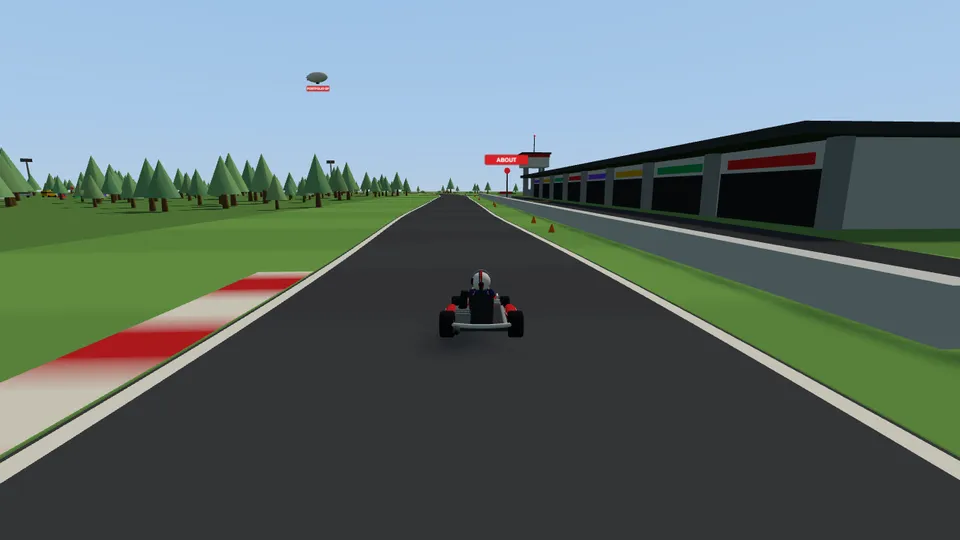
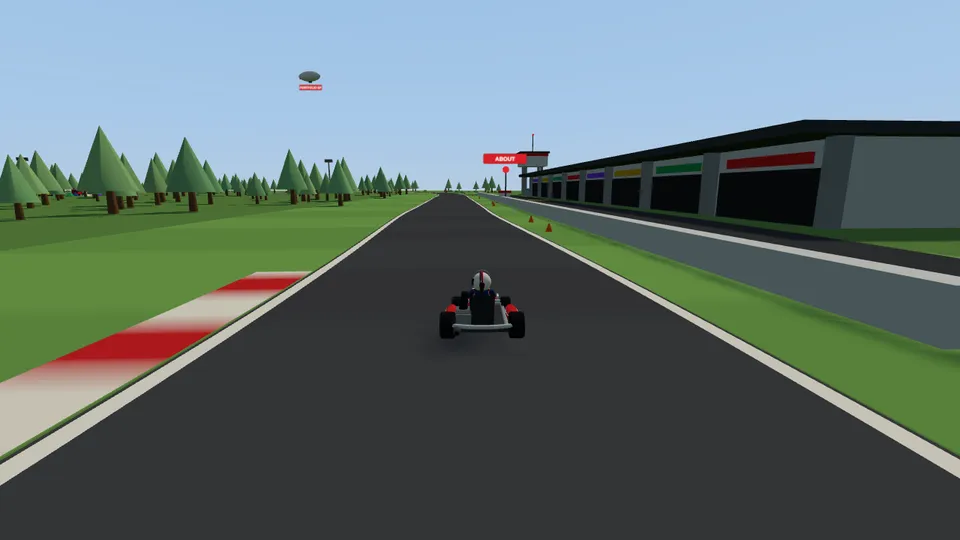
Mumbai GP polish: night sync, start lights, culling, facade hash fix, phone checks
- night/dusk state now syncs every layer (lamps, light pools, signs) via atmosphere listeners;
  brighter purple-blue toy night
- five-light start sequence with beeps for the timed GP; grid moved under the gantry
- distance culling for small-prop chunks
- fix: per-pixel hash jitter in facades (curtains/awnings striping) — integer seeds, rounded in shader
- panel pop-in animation, arrival ring burst, toy-styled loading screen
- brighter car red; regenerated menu previews; README
- e2e: phone (touch + low quality) checks — 29/29 passing

Claude-Session: https://claude.ai/code/session_01R3orstBXDgi5d4mRQ7dYN1

diff --git a/src/mumbai/landmarks.js b/src/mumbai/landmarks.js
@@ -128,7 +128,7 @@ export function buildLandmarks(ctx) {
   {
     const cx = 846, cz = 1102, gy = terr.heightAt(cx, cz) - 0.5;
     const cream = new THREE.Color(0xdcc9a4), roof = new THREE.Color(0x6b6156);
-    const fac = [STYLE.heritage, 4.3, 3.4, 11.3];
+    const fac = [STYLE.heritage, 4.3, 3.4, 113];
     const H = 6 * 4.3;
     fb.prism(rectPts(cx, cz, 9, 34, 0), gy, gy + H, cream, fac, roof, [STYLE.roof, 3, 3, 1]);
     fb.prism(rectPts(cx - 18, cz + 26, 18, 8, 0), gy, gy + H - 4.3, cream, fac, roof, [STYLE.roof, 3, 3, 2]);
@@ -153,7 +153,7 @@ export function buildLandmarks(ctx) {
     const p = PLACES.find(q => q.id === 'pitwall');
     const gy = terr.heightAt(p.x, p.z);
     // pavilion
-    fb.prism(rectPts(p.x, p.z - 10, 14, 6, 0), gy - 0.4, gy + 7.6, new THREE.Color(0x2a2e35), [STYLE.glass, 3.8, 1.6, 7.7], new THREE.Color(0x33373d), [STYLE.roof, 3, 3, 5]);
+    fb.prism(rectPts(p.x, p.z - 10, 14, 6, 0), gy - 0.4, gy + 7.6, new THREE.Color(0x2a2e35), [STYLE.glass, 3.8, 1.6, 77], new THREE.Color(0x33373d), [STYLE.roof, 3, 3, 5]);
     add(box(30, 0.5, 14), steel, p.x, gy + 7.9, p.z - 9.5);
     const sign = new THREE.Mesh(new THREE.PlaneGeometry(16, 2.4), new THREE.MeshStandardMaterial({ map: signTexture(['PIT WALL', 'CAREER HQ · FINISH'], { bg: '#121418', accent: '#d81f26' }), emissive: 0xffffff, emissiveIntensity: 0.25, emissiveMap: null }));
     sign.material.emissiveMap = sign.material.map;
@@ -174,9 +174,10 @@ export function buildLandmarks(ctx) {
     const lights = [];
     for (let k = 0; k < 5; k++) {
       const off = (k - 2) * 1.6;
-      const lm = new THREE.MeshStandardMaterial({ color: 0x220000, emissive: 0xff1a1a, emissiveIntensity: 0 });
-      const l = add(new THREE.CircleGeometry(0.42, 16), lm, r.x[gi] + nx * off + r.tx[gi] * 0.52, h + 7.2, r.z[gi] + nz * off + r.tz[gi] * 0.52, 0, false);
-      l.rotation.y = Math.atan2(-r.tx[gi], -r.tz[gi]);
+      const lm = new THREE.MeshStandardMaterial({ color: 0x2a0606, emissive: 0xff2a1a, emissiveIntensity: 0, roughness: 0.3 });
+      const housing = add(new THREE.BoxGeometry(0.62, 1.5, 0.5), steel, r.x[gi] + nx * off + r.tx[gi] * 0.6, h + 6.9, r.z[gi] + nz * off + r.tz[gi] * 0.6, Math.atan2(r.tx[gi], r.tz[gi]), false);
+      for (const dy of [0.32, -0.3]) { const l = add(new THREE.SphereGeometry(0.2, 12, 8), lm, r.x[gi] + nx * off + r.tx[gi] * 0.86, h + 6.9 + dy, r.z[gi] + nz * off + r.tz[gi] * 0.86, 0, false); l.scale.z = 0.5; l.rotation.y = Math.atan2(r.tx[gi], r.tz[gi]); }
+      void housing;
       lights.push(lm);
     }
     const timing = new THREE.Mesh(new THREE.PlaneGeometry(5, 1), new THREE.MeshBasicMaterial({ map: signTexture(['MUMBAI GP · START / FINISH'], { bg: '#0d0f12', fg: '#ffd166', h: 160 }) }));
@@ -215,7 +216,7 @@ export function buildLandmarks(ctx) {
     const sg = add(box(12, 1.6, 0.25), [plaster, plaster, plaster, plaster, signMat, signMat], sx, gy + 4.6, sz, F.rot);
     // main block (L-shape): open corridors facing the courtyard, maroon bands
     const cream = new THREE.Color(0xece2cc), roofC = new THREE.Color(0x5c5550);
-    const bfac = [STYLE.chawl, 3.7, 3.0, 4.2];
+    const bfac = [STYLE.chawl, 3.7, 3.0, 42];
     const blockA = rectPts(...F.T(0, -26), 30, 7, F.rot);
     fb.prism(blockA, gy - 0.5, gy + 15.4, cream, bfac, roofC, [STYLE.roof, 3, 3, 6]);
     fb.prism(rectPts(...F.T(0, -26), 30.4, 7.4, F.rot), gy + 15.4, gy + 16.2, new THREE.Color(0x7a2a28), [STYLE.plain, 3, 3, 0], roofC, [STYLE.roof, 3, 3, 6]);
@@ -243,7 +244,7 @@ export function buildLandmarks(ctx) {
     const F = frame(net, cx, cz);
     const gy = plazaH('kcCourt') + 0.05;
     const pts = rectPts(...F.T(0, -12), 20, 9, F.rot);
-    fb.prism(pts, gy - 0.5, gy + 26, new THREE.Color(0xe3dccb), [STYLE.office, 3.6, 2.2, 21.7], new THREE.Color(0x5d5852), [STYLE.roof, 3, 3, 8]);
+    fb.prism(pts, gy - 0.5, gy + 26, new THREE.Color(0xe3dccb), [STYLE.office, 3.6, 2.2, 217], new THREE.Color(0x5d5852), [STYLE.roof, 3, 3, 8]);
     fb.prism(rectPts(...F.T(0, -12), 20.4, 9.4, F.rot), gy + 26, gy + 27, new THREE.Color(0x24486e), [STYLE.plain, 3, 3, 0], new THREE.Color(0x5d5852), [STYLE.roof, 3, 3, 8]);
     colliders.box(...F.T(0, -12), 20, 9, F.rot, gy - 1, gy + 28);
     const [cx2, cz2] = F.T(0, -1.8);
@@ -260,12 +261,12 @@ export function buildLandmarks(ctx) {
     const grey = new THREE.Color(0xdad6cd), terracotta = new THREE.Color(0x9a4a32), roofC = new THREE.Color(0x56524d);
     // main block: G+8, as described on the institute's site
     const main = rectPts(...F.T(0, -30), 32, 10, F.rot);
-    fb.prism(main, gy - 0.5, gy + 34, grey, [STYLE.office, 3.7, 2.4, 31.1], roofC, [STYLE.roof, 3, 3, 9]);
+    fb.prism(main, gy - 0.5, gy + 34, grey, [STYLE.office, 3.7, 2.4, 311], roofC, [STYLE.roof, 3, 3, 9]);
     for (let k = 1; k <= 3; k++) fb.prism(rectPts(...F.T(0, -30), 32.3, 10.3, F.rot), gy + k * 11 - 0.6, gy + k * 11, terracotta, [STYLE.plain, 3, 3, 0], null, null);
     fb.prism(rectPts(...F.T(0, -30), 32.4, 10.4, F.rot), gy + 34, gy + 35.2, terracotta, [STYLE.plain, 3, 3, 0], roofC, [STYLE.roof, 3, 3, 9]);
     colliders.box(...F.T(0, -30), 32, 10, F.rot, gy - 1, gy + 36);
     // second (newer) block to the side
-    fb.prism(rectPts(...F.T(42, -14), 10, 16, F.rot), gy - 0.5, gy + 19, new THREE.Color(0x3a444b), [STYLE.glass, 3.8, 1.6, 41.3], roofC, [STYLE.roof, 3, 3, 10]);
+    fb.prism(rectPts(...F.T(42, -14), 10, 16, F.rot), gy - 0.5, gy + 19, new THREE.Color(0x3a444b), [STYLE.glass, 3.8, 1.6, 413], roofC, [STYLE.roof, 3, 3, 10]);
     fb.prism(rectPts(...F.T(42, -14), 10.4, 16.4, F.rot), gy + 19, gy + 20, terracotta, [STYLE.plain, 3, 3, 0], roofC, [STYLE.roof, 3, 3, 10]);
     colliders.box(...F.T(42, -14), 10, 16, F.rot, gy - 1, gy + 21);
     // entrance portico + name on the facade
@@ -367,7 +368,7 @@ export function buildLandmarks(ctx) {
     add(new THREE.CylinderGeometry(0.6, 1.4, 4, 16), whiteStone, p.x, p.h + 2.6, p.z);
     colliders.post(p.x, p.z, 9.2, p.h - 1, p.h + 2);
     const tx = p.x + 30, tz = p.z - 46, gy = terr.heightAt(tx, tz) - 0.5;
-    fb.prism(rectPts(tx, tz, 16, 16, 0.3, 6), gy, gy + 150, new THREE.Color(0x2f3a42), [STYLE.glass, 3.9, 1.6, 77.7], new THREE.Color(0x24292e), [STYLE.roof, 3, 3, 3]);
+    fb.prism(rectPts(tx, tz, 16, 16, 0.3, 6), gy, gy + 150, new THREE.Color(0x2f3a42), [STYLE.glass, 3.9, 1.6, 777], new THREE.Color(0x24292e), [STYLE.roof, 3, 3, 3]);
     fb.prism(rectPts(tx, tz, 9, 9, 0.3), gy + 150, gy + 162, new THREE.Color(0x24292e), [STYLE.plain, 3, 3, 0], new THREE.Color(0x24292e), [STYLE.roof, 3, 3, 3]);
     colliders.box(tx, tz, 16, 16, 0.3, gy - 1, gy + 160);
     const s = new THREE.Mesh(new THREE.PlaneGeometry(12, 3), new THREE.MeshStandardMaterial({ map: signTexture(['BKC'], { bg: '#0f1720', fg: '#ffffff', h: 220, accent: '#5ec7ff' }), emissiveIntensity: 0.4, emissive: 0xffffff }));
@@ -382,7 +383,7 @@ export function buildLandmarks(ctx) {
 
   /* =============== destination beacons =============== */
   const beaconMat = c => new THREE.MeshBasicMaterial({ color: c, transparent: true, opacity: 0.22, depthWrite: false, blending: THREE.AdditiveBlending, side: THREE.DoubleSide, fog: false });
-  const beacons = [];
+  const beacons = [], bursts = [];
   for (const pl of PLACES) {
     let y = terr.heightAt(pl.x, pl.z);
     if (pl.elevated) { const out = {}; net.roadSurface(pl.x, pl.z, 100, out); y = out.h || y; }
@@ -400,8 +401,15 @@ export function buildLandmarks(ctx) {
   return {
     group, beacons, startLights: markers.startLights,
     setVisited(id) { const b = beacons.find(q => q.id === id); if (b) { b.beam.material.opacity = 0.06; b.ring.material.opacity = 0.15; } },
-    update(t) {
+    celebrate(id) {
+      const b = beacons.find(q => q.id === id); if (!b) return;
+      const burst = new THREE.Mesh(new THREE.RingGeometry(0.8, 1.6, 48), new THREE.MeshBasicMaterial({ color: 0xffd166, transparent: true, opacity: 0.9, depthWrite: false, side: THREE.DoubleSide, fog: false }));
+      burst.rotation.x = -Math.PI / 2; burst.position.copy(b.ring.position); burst.position.y += 0.2; burst.userData.t = 0;
+      group.add(burst); bursts.push(burst);
+    },
+    update(t, dt = 0.016) {
       for (const b of beacons) { b.ring.scale.setScalar(1 + Math.sin(t * 2.2) * 0.04); }
+      for (let i = bursts.length - 1; i >= 0; i--) { const m = bursts[i]; m.userData.t += dt; const k = m.userData.t / 1.2; m.scale.setScalar(1 + k * 22); m.material.opacity = 0.9 * (1 - k); if (k >= 1) { group.remove(m); m.geometry.dispose(); bursts.splice(i, 1); } }
     },
   };
 }

diff --git a/src/ui/game.css b/src/ui/game.css
@@ -12,15 +12,17 @@ button { font-family: inherit; cursor: pointer; }
 kbd { display: inline-block; min-width: 22px; padding: 1px 7px; border: 1px solid #3a3f49; border-bottom-width: 2px; border-radius: 4px; background: #1b1e25; color: #fff; font: 700 11px var(--font); text-align: center; }
 
 /* ---------- loading / title ---------- */
-#loader { position: fixed; inset: 0; z-index: 60; display: flex; flex-direction: column; justify-content: flex-end; padding: 6vh 6vw;
-  background: radial-gradient(1200px 600px at 75% 30%, rgba(216,31,38,0.22), transparent 60%), linear-gradient(180deg, #0b0d11 0%, #13161c 100%); }
-#loader .brand { font-size: 13px; letter-spacing: .4em; color: var(--dim); text-transform: uppercase; }
+#loader { position: fixed; inset: 0; z-index: 60; display: flex; flex-direction: column; justify-content: flex-end; padding: 6vh 6vw; color: #23202b;
+  background: url(../../assets/previews/mumbai.webp) right -6vw center / auto 92% no-repeat, linear-gradient(180deg, #9cc2f2 0%, #cfe0f5 45%, #f7dccb 100%); }
+#loader .brand { font-size: 13px; letter-spacing: .4em; color: #4b4560; text-transform: uppercase; }
 #loader h1 { font-size: clamp(44px, 8vw, 104px); font-weight: 900; line-height: .9; letter-spacing: -.01em; margin: 10px 0 8px; }
 #loader h1 span { color: var(--red); }
-#loader .sub { max-width: 620px; color: #c3c9d1; font-size: 16px; line-height: 1.55; }
-#loader .bar { margin-top: 34px; width: min(560px, 88vw); height: 3px; background: rgba(255,255,255,0.1); border-radius: 2px; overflow: hidden; }
+#loader .sub { max-width: 620px; color: #3d3848; font-size: 16px; line-height: 1.55; background: rgba(255,255,255,.55); padding: 10px 14px; border-radius: 10px; }
+#loader .bar { margin-top: 30px; width: min(560px, 88vw); height: 6px; background: rgba(35,32,43,0.12); border-radius: 3px; overflow: hidden; }
 #loader .bar i { display: block; height: 100%; width: 0; background: var(--red); transition: width .25s ease; }
-#loader .stage { margin-top: 10px; font-size: 12px; letter-spacing: .2em; color: var(--dim); text-transform: uppercase; min-height: 18px; }
+#loader .stage { margin-top: 10px; font-size: 12px; letter-spacing: .2em; color: #4b4560; text-transform: uppercase; min-height: 18px; }
+#loader .btn:not(.primary) { background: #fff; color: #23202b; border-color: #fff; }
+#loader .btn.ghost { background: rgba(255,255,255,.5); }
 #loader .actions { margin-top: 26px; display: flex; gap: 12px; flex-wrap: wrap; align-items: center; }
 .btn { border: 1px solid var(--line); background: #1b1e25; color: #fff; padding: 13px 26px; border-radius: 6px; font-weight: 700; font-size: 13px; letter-spacing: .16em; text-transform: uppercase; text-decoration: none; display: inline-flex; align-items: center; gap: 10px; transition: background .15s, transform .15s; }
 .btn:hover { background: #252932; transform: translateY(-1px); }
@@ -28,7 +30,8 @@ kbd { display: inline-block; min-width: 22px; padding: 1px 7px; border: 1px soli
 .btn.primary:hover { background: #ec2a31; }
 .btn.ghost { background: transparent; }
 .btn:disabled { opacity: .4; cursor: default; transform: none; }
-#loader .note { margin-top: 18px; font-size: 12px; color: #7d8792; max-width: 640px; line-height: 1.5; }
+#loader .note { margin-top: 18px; font-size: 12px; color: #4b4560; max-width: 640px; line-height: 1.5; }
+@media (max-width: 760px) { #loader { background: linear-gradient(180deg, #9cc2f2 0%, #cfe0f5 45%, #f7dccb 100%); } }
 #loader .err { margin-top: 18px; color: #ff9a9a; font-size: 14px; }
 
 /* ---------- HUD ---------- */
@@ -86,7 +89,7 @@ kbd { display: inline-block; min-width: 22px; padding: 1px 7px; border: 1px soli
 
 /* ---------- portfolio panel ---------- */
 #panelWrap { position: fixed; inset: 0; z-index: 40; display: none; align-items: center; justify-content: center; background: rgba(4,5,8,.5); backdrop-filter: blur(3px); padding: 20px; }
-#panel { width: min(760px, 96vw); max-height: 88vh; display: flex; flex-direction: column; background: #12151b; border-radius: 12px; overflow: hidden; box-shadow: 0 30px 90px rgba(0,0,0,.6); border: 1px solid var(--line); }
+#panel { animation: panelIn .38s cubic-bezier(.2,.9,.25,1.25); width: min(760px, 96vw); max-height: 88vh; display: flex; flex-direction: column; background: #12151b; border-radius: 12px; overflow: hidden; box-shadow: 0 30px 90px rgba(0,0,0,.6); border: 1px solid var(--line); }
 #panel header { padding: 18px 24px 16px; position: relative; }
 #panel header .k { font-size: 11px; letter-spacing: .3em; text-transform: uppercase; opacity: .85; }
 #panel header h2 { font-size: 28px; font-weight: 900; line-height: 1.1; margin-top: 4px; }
@@ -109,6 +112,10 @@ kbd { display: inline-block; min-width: 22px; padding: 1px 7px; border: 1px soli
 #panel a { color: #8fd0ff; text-decoration: none; } #panel a:hover { text-decoration: underline; }
 #panel footer { padding: 12px 24px; border-top: 1px solid #222731; display: flex; gap: 10px; justify-content: flex-end; flex-wrap: wrap; }
 #panel .note { font-size: 12px; color: #7d8792; margin-top: 12px; }
+
+@keyframes panelIn { from { opacity: 0; transform: translateY(26px) scale(.94); } to { opacity: 1; transform: none; } }
+#panel .stat { animation: statIn .5s ease both; } #panel .stat:nth-child(2) { animation-delay: .08s; } #panel .stat:nth-child(3) { animation-delay: .16s; }
+@keyframes statIn { from { opacity: 0; transform: translateY(10px); } to { opacity: 1; transform: none; } }
 
 /* ---------- pause menu ---------- */
 #pause { position: fixed; inset: 0; z-index: 45; display: none; background: rgba(5,6,9,.72); backdrop-filter: blur(6px); align-items: center; justify-content: center; padding: 20px; }

diff --git a/src/mumbai/main.js b/src/mumbai/main.js
@@ -110,6 +110,7 @@ async function boot() {
   const head = new THREE.SpotLight(0xfff1dc, 0, 70, 0.55, 0.6, 1.4);
   head.position.set(0, 0.6, 1.2); head.target.position.set(0, -1.5, 22);
   car.body.add(head, head.target); car.headlight = head;
+  atmo.listeners.push(() => updateHeadlight());
   updateHeadlight();
   // pre-compile shaders so the first frames don't hitch
   carPose();
@@ -173,8 +174,8 @@ function endIntro() {
   $('introTitle').classList.add('hidden'); $('skipIntro').style.display = 'none';
   rig.snapTo(sim.pos, sim.quat);
   startDrive();
-  toast(state.gp ? 'Mumbai GP — go!' : 'Free roam', state.gp ? 'Follow the red line. Timer runs until the finish at the Gateway.' : 'Explore — destinations are marked on the map');
-  if (state.gp) { state.lapStart = performance.now(); state.lapRunning = true; }
+  if (state.gp) startLights();
+  else toast('Free roam', 'Explore — destinations are marked on the map');
   setTimeout(() => { $('help').style.opacity = 0; }, 12000);
 }
 function startDrive() {
@@ -184,6 +185,23 @@ function startDrive() {
   input.setEnabled(true);
   stepper.resync();
   audio.resume();
+}
+
+/* five red lights, then lights out */
+function startLights() {
+  const L = (world.layers.landmarks && world.layers.landmarks.startLights) || [];
+  input.setEnabled(false);
+  state.lightsOut = false;
+  L.forEach(m => { m.emissiveIntensity = 0; });
+  for (let k = 0; k < 5; k++) setTimeout(() => { if (L[k]) L[k].emissiveIntensity = 5; audio.beep(false); }, 600 + k * 750);
+  setTimeout(() => {
+    L.forEach(m => { m.emissiveIntensity = 0; });
+    audio.beep(true);
+    input.setEnabled(state.mode === 'drive');
+    state.lightsOut = true;
+    state.lapStart = performance.now(); state.lapRunning = true;
+    toast('Lights out — go!', 'Follow the red line to every chapter; the clock stops at the Pit Wall.');
+  }, 600 + 4 * 750 + 700 + Math.random() * 700);
 }
 
 /* ---------------- targets / route ---------------- */
@@ -225,7 +243,7 @@ function checkPlaces() {
     near = pl;
     if (!state.visited.has(pl.id)) {
       state.visited.add(pl.id); minimap.found.add(pl.id); bigmap.found.add(pl.id);
-      if (world.layers.landmarks) world.layers.landmarks.setVisited(pl.id);
+      if (world.layers.landmarks) { world.layers.landmarks.setVisited(pl.id); world.layers.landmarks.celebrate(pl.id); }
       progressStore.set('mumbai.visited', [...state.visited]);
       audio.chime();
       toast(pl.kind === 'chapter' ? 'Chapter unlocked' : 'Landmark discovered', pl.name);

diff --git a/src/vehicle/car-model.js b/src/vehicle/car-model.js
@@ -19,7 +19,7 @@ function materials() {
   carbonTex.repeat.set(6, 6);
   return {
     paint: new THREE.MeshPhysicalMaterial({ color: 0xffffff, roughness: 0.38, metalness: 0.05, clearcoat: 0.55, clearcoatRoughness: 0.08, envMapIntensity: 0.7 }),
-    red: new THREE.MeshPhysicalMaterial({ color: 0x8f0a12, roughness: 0.38, metalness: 0.05, clearcoat: 0.55, clearcoatRoughness: 0.08, envMapIntensity: 0.7 }),
+    red: new THREE.MeshPhysicalMaterial({ color: 0xb3121b, roughness: 0.38, metalness: 0.05, clearcoat: 0.55, clearcoatRoughness: 0.08, envMapIntensity: 0.7 }),
     paintDark: new THREE.MeshPhysicalMaterial({ color: 0x6e0a10, roughness: 0.35, metalness: 0.15, clearcoat: 1, clearcoatRoughness: 0.1 }),
     white: new THREE.MeshPhysicalMaterial({ color: 0xf1f1ee, roughness: 0.3, clearcoat: 0.8, clearcoatRoughness: 0.1 }),
     carbon: new THREE.MeshStandardMaterial({ color: 0xffffff, map: carbonTex, roughness: 0.5, metalness: 0.05 }),
@@ -113,7 +113,7 @@ export function buildCar() {
   ], { radial: 32, sub: 5 });
   // livery: red with a carbon lower half and a white pinstripe
   const liv = canvasTexture(512, 1024, (g, W, H) => {
-    g.fillStyle = '#8f0a12'; g.fillRect(0, 0, W, H);
+    g.fillStyle = '#b3121b'; g.fillRect(0, 0, W, H);
     g.fillStyle = '#141416'; g.fillRect(0, 0, W * 0.12, H); g.fillRect(W * 0.88, 0, W * 0.12, H);
     g.fillStyle = '#f1f1ee'; g.fillRect(W * 0.12, H * 0.08, W * 0.01, H * 0.5); g.fillRect(W * 0.87, H * 0.08, W * 0.01, H * 0.5);
     // white nose tip band
@@ -318,7 +318,7 @@ export function buildCar() {
       const gold = name === 'gold';
       M.paint.map = gold ? canvasTexture(512, 1024, (g, W, H) => { g.fillStyle = '#c99a2e'; g.fillRect(0, 0, W, H); g.fillStyle = '#141416'; g.fillRect(0, 0, W * 0.12, H); g.fillRect(W * 0.88, 0, W * 0.12, H); g.fillStyle = '#fff3c4'; g.fillRect(0, 0, W, H * 0.035); }) : liv;
       M.paint.metalness = gold ? 0.55 : 0.05; M.paint.roughness = gold ? 0.28 : 0.38;
-      M.red.color.set(gold ? 0xc99a2e : 0x8f0a12); M.red.metalness = gold ? 0.55 : 0.05;
+      M.red.color.set(gold ? 0xc99a2e : 0xb3121b); M.red.metalness = gold ? 0.55 : 0.05;
       M.paint.needsUpdate = true;
     },
     /** Pose the car from the interpolated sim state. */

diff --git a/src/mumbai/atmosphere.js b/src/mumbai/atmosphere.js
@@ -7,7 +7,7 @@ export const TIMES = {
   morning: { label: 'Morning',     top: '#9cc2f2', mid: '#cfe0f5', bottom: '#f7dccb', sun: 0xffe2b8, sunI: 3.4, elev: 44, azim: 140, hemiSky: 0xc8d6ff, hemiGround: 0xe9c39a, hemiI: 0.95, fog: 0xdfe2ef, fogD: 0.00042, night: 0, exposure: 0.8 },
   golden:  { label: 'Golden hour', top: '#8fb0ea', mid: '#f3c9b8', bottom: '#ffc58f', sun: 0xffc27a, sunI: 3.0, elev: 22, azim: 250, hemiSky: 0xc6c8f2, hemiGround: 0xf2b788, hemiI: 1.05, fog: 0xf0cdb8, fogD: 0.00048, night: 0.1, exposure: 0.8 },
   dusk:    { label: 'Dusk',        top: '#3b4a8f', mid: '#a06aa8', bottom: '#f39c7a', sun: 0xff9a6a, sunI: 1.4, elev: 10, azim: 262, hemiSky: 0x8a86d0, hemiGround: 0xa0607a, hemiI: 0.9, fog: 0xa77a9e, fogD: 0.0005, night: 0.65, exposure: 0.95 },
-  night:   { label: 'Night',       top: '#141c4a', mid: '#2a2f7a', bottom: '#6a3f86', sun: 0x8fa6ff, sunI: 0.55, elev: 55, azim: 320, hemiSky: 0x4b55b8, hemiGround: 0x3a2850, hemiI: 0.75, fog: 0x2b2f6e, fogD: 0.0005, night: 1, exposure: 1.05 },
+  night:   { label: 'Night',       top: '#16205a', mid: '#36358a', bottom: '#8a4f9a', sun: 0xa9b8ff, sunI: 0.9, elev: 55, azim: 320, hemiSky: 0x6670d8, hemiGround: 0x4a3060, hemiI: 1.15, fog: 0x34357a, fogD: 0.00045, night: 1, exposure: 1.25 },
 };
 export const DEFAULT_TIME = 'morning';
 
@@ -46,6 +46,7 @@ export class Atmosphere {
     this.envScene.add(new THREE.Mesh(new THREE.SphereGeometry(100, 32, 16), this.envMat));
     this.sunDir = new THREE.Vector3();
     this.horizon = new THREE.Color(); this.zenith = new THREE.Color();
+    this.listeners = [];
   }
 
   setShadowQuality(size) {
@@ -75,6 +76,7 @@ export class Atmosphere {
     this.envRT = this.pmrem.fromScene(this.envScene, 0.03);
     this.scene.environment = this.envRT.texture;
     if (this.onChange) this.onChange(T);
+    for (const fn of this.listeners) fn(T);
   }
 
   /** Keep the shadow frustum centred on the player (texel-snapped to avoid shimmer). */

diff --git a/src/mumbai/props.js b/src/mumbai/props.js
@@ -336,12 +336,21 @@ export function buildProps(ctx) {
   boats.count = boatList.length; boats.castShadow = true;
   group.add(boats);
 
+  /* distance culling: small props vanish into the haze anyway */
+  const cullables = group.children.filter(m => m.isInstancedMesh && m !== boats);
+  const farSq = (quality.key === 'low' ? 420 : quality.key === 'medium' ? 650 : 900) ** 2;
+  let cullT = 0;
+  function cull(cam) {
+    if ((cullT = (cullT + 1) % 10) !== 0) return;
+    for (const m of cullables) { const c = m.boundingSphere.center, r = m.boundingSphere.radius; const dx = c.x - cam.position.x, dz = c.z - cam.position.z; m.visible = dx * dx + dz * dz < farSq + r * r + 2 * r * Math.sqrt(farSq) || cam.position.y > 300; }
+  }
   scene.add(group);
-  const setNight = v => { headMat.emissiveIntensity = v * 2.2; poolMat.opacity = v * 0.75; };
+  const setNight = v => { headMat.emissiveIntensity = v * 3; poolMat.opacity = v; };
   setNight(atmo.night.value);
   return {
     group, counts: { trees: nTrees, lamps: nl, vehicles: nv, boats: boatList.length }, setNight,
-    update(t) {
+    update(t, dt, camera) {
+      if (camera) cull(camera);
       boatList.forEach((b, i) => {
         D.position.set(b.x, Math.sin(t * 1.3 + b.ph) * 0.15 - 0.1, b.z);
         D.rotation.set(Math.sin(t * 1.1 + b.ph) * 0.05, b.ry, Math.cos(t * 0.9 + b.ph) * 0.06); D.scale.setScalar(b.s); D.updateMatrix();

diff --git a/src/mumbai/buildings.js b/src/mumbai/buildings.js
@@ -27,7 +27,7 @@ export function facadeMaterial(nightU) {
     sh.fragmentShader = sh.fragmentShader
       .replace('#include <common>', '#include <common>\nuniform float uNight; varying vec2 vFuv; varying vec4 vFac;\n' + FACADE_GLSL + '\nfloat gGlass; float gLit; vec3 gLitCol;')
       .replace('#include <color_fragment>', `#include <color_fragment>
-        float style = vFac.x, fh = vFac.y, bw = vFac.z, seed = vFac.w;
+        float style = floor(vFac.x + 0.5), fh = vFac.y, bw = vFac.z, seed = floor(vFac.w + 0.5);   // rounded: interpolated varyings jitter, and hashes amplify jitter
         vec2 fu = vFuv;
         float fl = floor(fu.y / fh);
         vec2 cell = vec2(floor(fu.x / bw), fl);
@@ -459,7 +459,7 @@ export function buildBuildings(ctx) {
     gy -= 0.6;
     col.set(pick(PALETTES[style] || PALETTES.mid));
     const S = STYLE_OF[style] ?? STYLE.residential;
-    const seed = R() * 100;
+    const seed = Math.floor(R() * 997);
     const bw = style === 'glass' ? 2.2 : style === 'office' ? 2.6 : style === 'deco' ? 2.8 : style === 'heritage' ? 3.6 : style === 'industrial' || style === 'warehouse' ? 6 : 3.4;
     const fac = [S, fh, bw, seed];
     roofCol.copy(col).multiplyScalar(0.82).lerp(new THREE.Color(0xb9b2aa), 0.35);

diff --git a/src/core/audio.js b/src/core/audio.js
@@ -174,6 +174,14 @@ export class CarAudio {
     for (let k = 0; k < 14; k++) { g.gain.linearRampToValueAtTime(0.12 * (1 - k / 14), t + k * 0.05 + 0.02); g.gain.linearRampToValueAtTime(0.01, t + k * 0.05 + 0.045); }
     s.connect(f).connect(g).connect(this.master); s.start(t, Math.random()); s.stop(t + 0.8);
   }
+  /** Start-light beep (go = higher, longer). */
+  beep(go = false) {
+    if (!this.started) return;
+    const ctx = this.ctx, t = ctx.currentTime;
+    const o = ctx.createOscillator(); o.type = 'square'; o.frequency.value = go ? 1320 : 660;
+    const g = ctx.createGain(); g.gain.setValueAtTime(0.1, t); g.gain.exponentialRampToValueAtTime(0.001, t + (go ? 0.6 : 0.18));
+    o.connect(g).connect(this.master); o.start(t); o.stop(t + (go ? 0.62 : 0.2));
+  }
   /** UI blip for discoveries. */
   chime() {
     if (!this.started) return;

diff --git a/src/mumbai/layout.js b/src/mumbai/layout.js
@@ -146,7 +146,7 @@ export const PLACES = [
 /* Guided Mumbai GP route: an ordered list of waypoints (place ids or raw points). */
 export const GP_ROUTE = ['start', 'marineDrive', 'kccollege', 'chowpatty', 'villaTheresa', 'seaLink', 'bandraFort', 'bkc', 'kjsit', 'pitwall'];
 
-export const SPAWN = { x: 800, z: 1033, heading: -Math.PI / 2 - 0.05 };   // Apollo Bunder, facing west
+export const SPAWN = { x: 846, z: 1035, heading: -Math.PI / 2 - 0.05 };   // Apollo Bunder grid, facing west under the start gantry
 export const WORLD_BOUNDS = { minX: -760, maxX: 1300, minZ: -2100, maxZ: 1420 };
 export const SEA_LEVEL = 0;
 

diff --git a/README.md b/README.md
@@ -1,0 +1,44 @@
+# Rhea Laloo — Portfolio Grand Prix
+
+A static site with no build step, deployed by GitHub Pages:
+
+| Page | What it is |
+|---|---|
+| `index.html` | Environment select: Mumbai GP or the original circuit, plus quick links for recruiters |
+| `mumbai.html` | **Mumbai GP**: a toy-diorama Mumbai to drive, with portfolio chapters at Villa Theresa, K. C. College and KJSIT, and the finish at the Gateway |
+| `circuit.html` | The original F1 Track Day circuit (preserved) |
+| `portfolio.html` | The full portfolio on one page, no driving |
+
+## Run locally
+
+```bash
+python3 -m http.server 4173      # then open http://localhost:4173
+```
+
+## Tests
+
+```bash
+npm install                      # dev-only: three.js for Node tests
+npm test                         # vehicle-dynamics + world-generation unit tests (21)
+npm run test:e2e                 # headless Chromium: all pages, gameplay, circuit regression, phone (29 checks)
+npm run previews                 # re-capture the menu preview images
+```
+
+## Code map
+
+```
+src/shared/portfolio-data.js   résumé data used by every page (single source of truth)
+src/vehicle/sim.js             120 Hz rigid-body car: suspension, tyre friction ellipse, gearbox, aero, assists
+src/vehicle/car-model.js       procedural open-wheel car (fictional "Laloo Racing" livery)
+src/core/                      input (keyboard/gamepad/touch), synthesized audio, camera rig, settings
+src/mumbai/layout.js           the fictionalised city plan: coast, roads, districts, landmarks, destinations
+src/mumbai/network.js          road splines, height profiles, junctions, drivable-surface queries
+src/mumbai/terrain.js          height grid shaped around roads/plazas; ground meshes
+src/mumbai/buildings.js        toy buildings with shader-drawn facades and 3D street fronts
+src/mumbai/landmarks.js        Gateway, Taj, Sea Link, Bandra Fort, school, colleges, Pit Wall
+src/mumbai/props.js            trees, palms, lamps, parked vehicles, boats, tetrapods
+src/mumbai/play.js             knockable props, chai collectibles, ramps, pigeons, traffic
+src/mumbai/main.js             game loop, states, HUD, panels, settings, secrets
+```
+
+Assets and licences: see [ASSETS.md](ASSETS.md). Everything visual and audible is generated in code.
